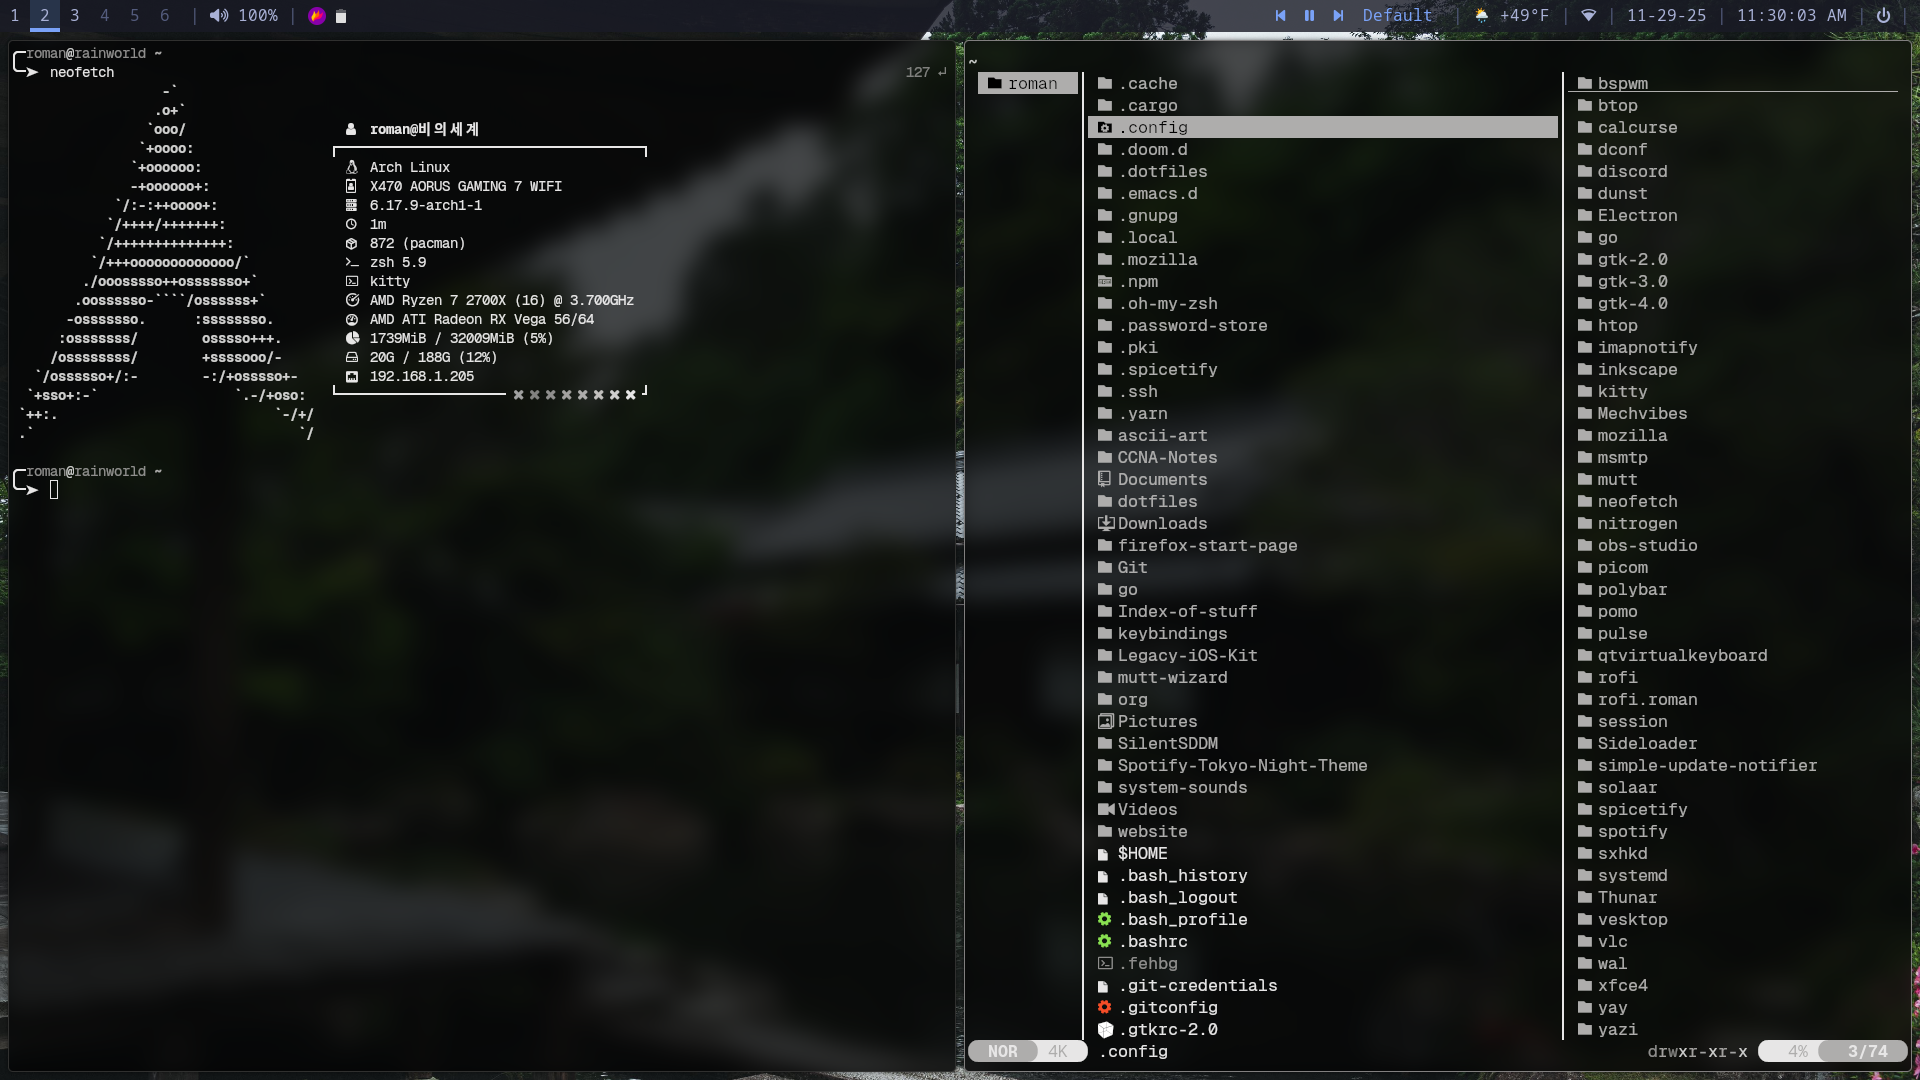
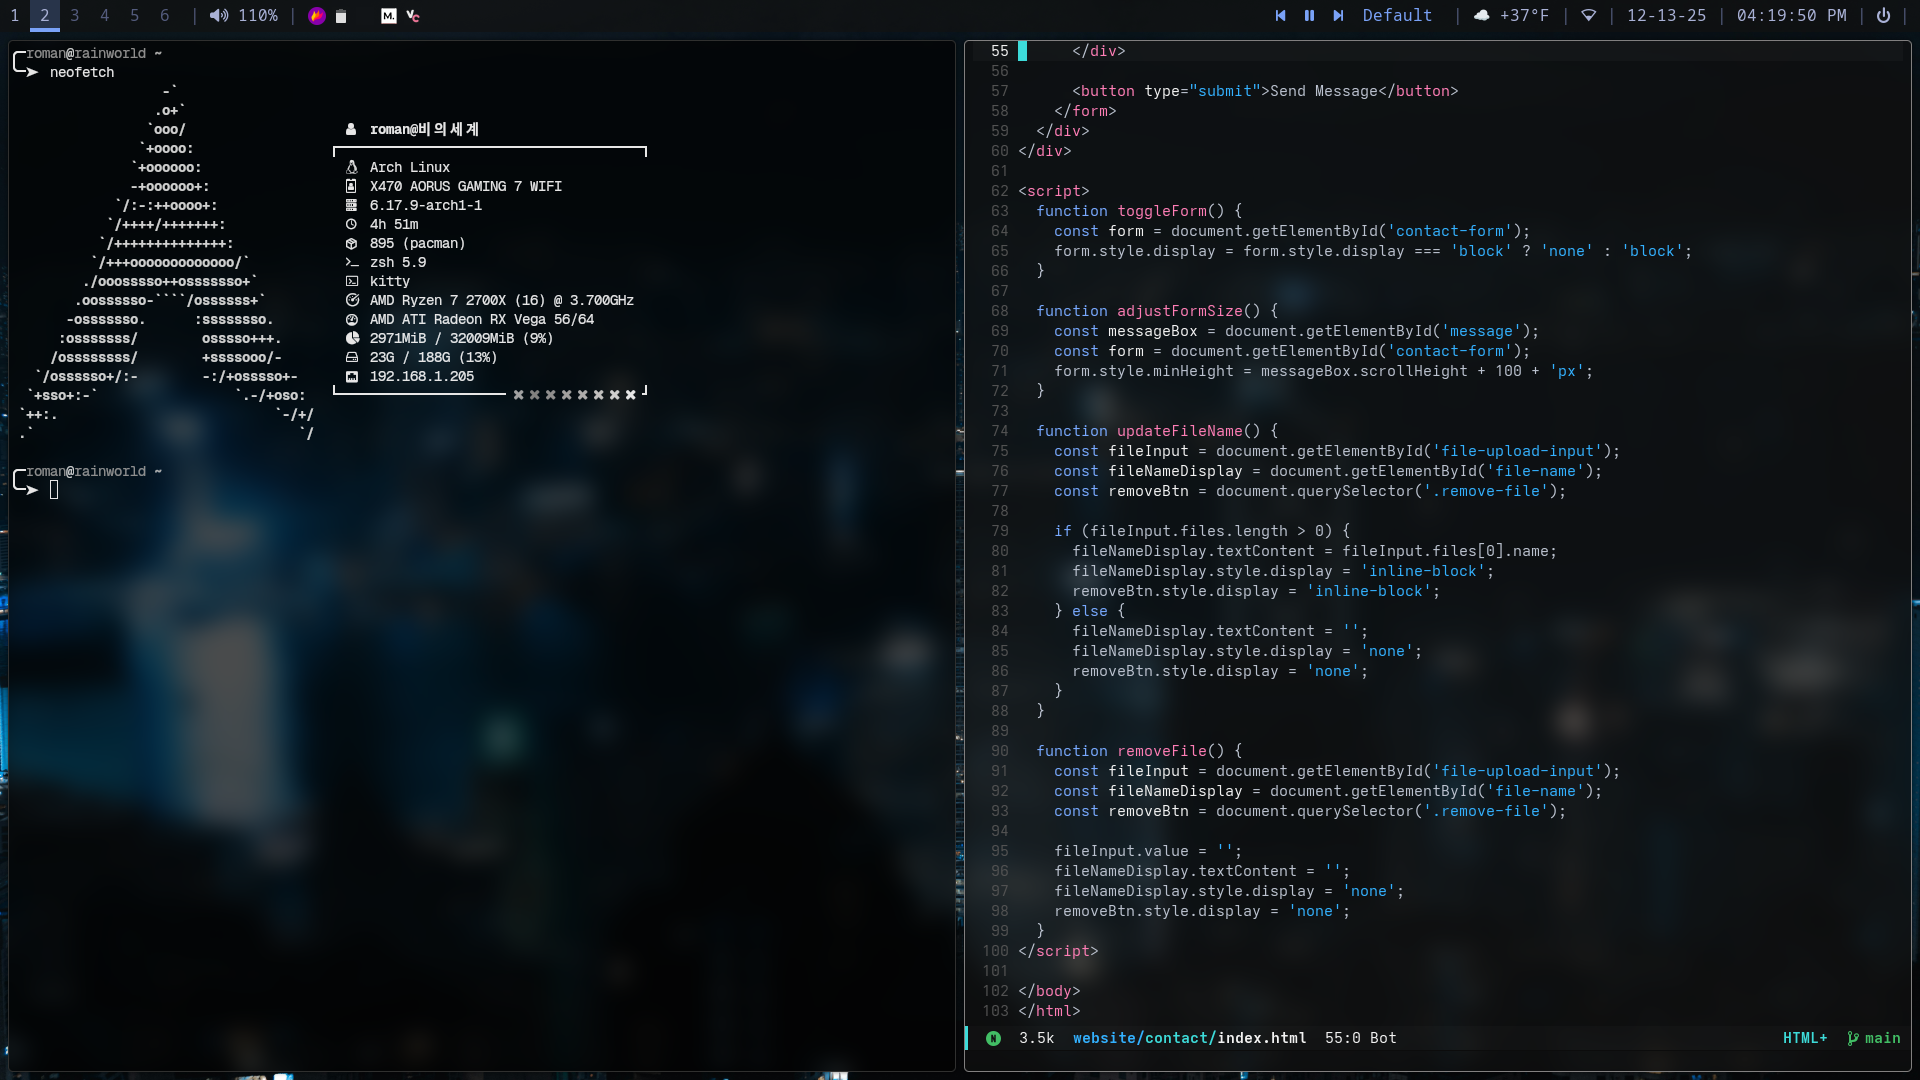
meow

diff --git a/README.md b/README.md
@@ -2,7 +2,7 @@
 
 https://github.com/user-attachments/assets/fcb1e2b1-36db-456f-a35e-fedbcfc15655
 
-![Screenshot Showcase](images/img4.png)
+![Screenshot Showcase](images/img1.png)
 ![Example 2](images/img2.png)
 
   <details>